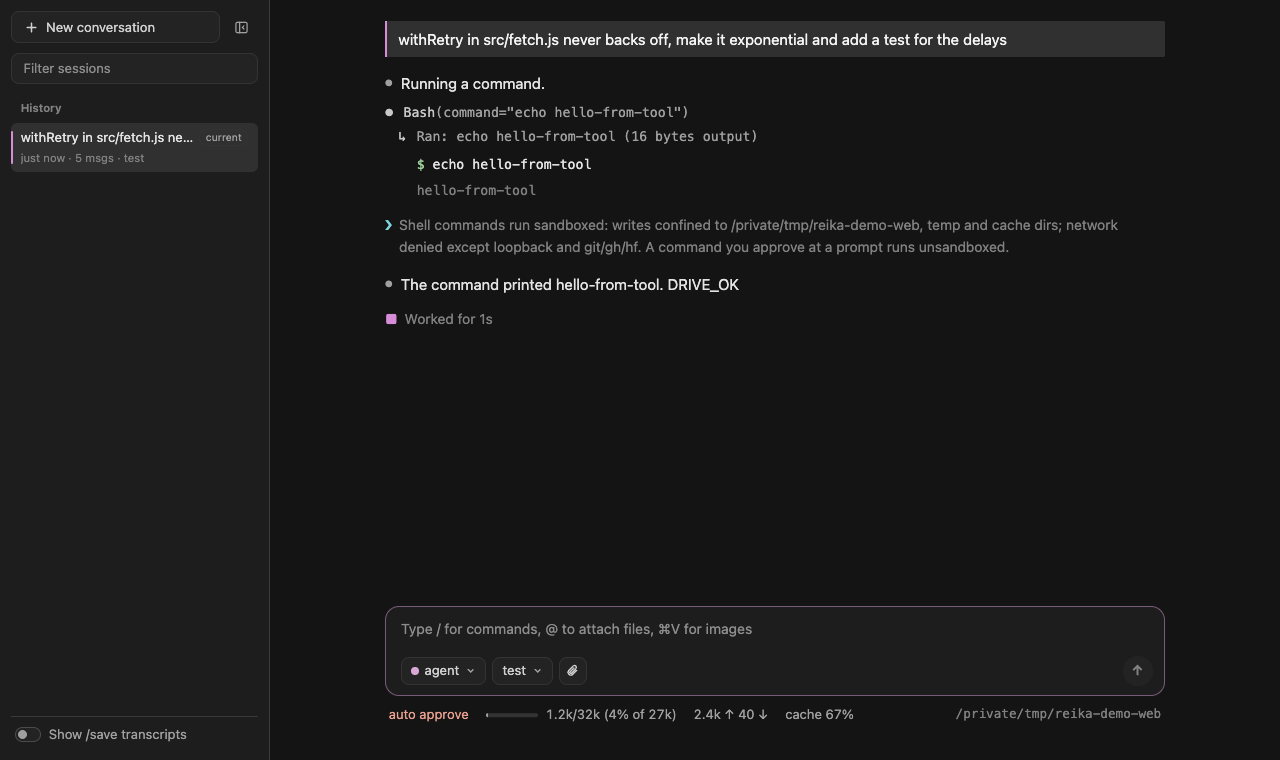
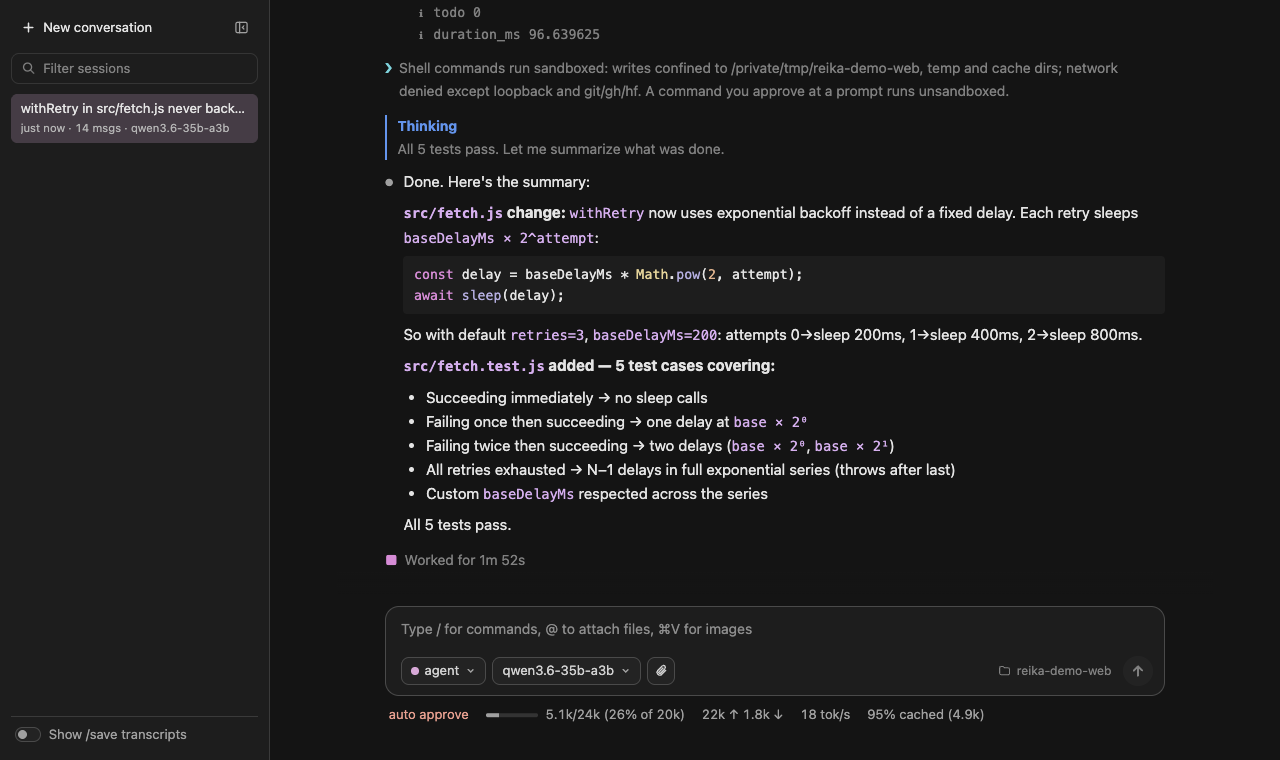
docs: real web demo take and its captions
Replaces the placeholder demo-web.gif with a recorded run of the same task
as the terminal gif, on the same model entry (Qwen3.6 35B A3B UD-IQ2_M via
llama.cpp), cut at 3x. Fills the English and Chinese web captions, which
describe this take: the tests pass on the first run.

diff --git a/docs/zh/index.md b/docs/zh/index.md
@@ -78,7 +78,7 @@ docs:
   terminal-alt="Reika 使用本地模型修复重试辅助函数及其测试"
   terminal-caption="通过 llama.cpp 运行 Qwen3.6 35B A3B（Unsloth UD-IQ2_M）的一次真实本地运行，播放速度加快 3 倍。模型的第一次测试失败后，根据错误进行了修复。"
   web-alt="在 reika web 中完成同一任务：Reika 使用本地模型修复重试辅助函数及其测试"
-  web-caption="TODO: the web take's caption, translated."
+  web-caption="通过 llama.cpp 运行 Qwen3.6 35B A3B（Unsloth UD-IQ2_M）的一次真实本地运行，播放速度加快 3 倍。模型完成修改，为延迟编写了五个测试，第一次运行就全部通过。"
 />
 
 ## 安装

diff --git a/docs/index.md b/docs/index.md
@@ -79,7 +79,7 @@ docs:
   terminal-alt="Reika fixing a retry helper and its test with a local model"
   terminal-caption="A real local run of Qwen3.6 35B A3B (Unsloth UD-IQ2_M) via llama.cpp, sped up 3×. The model's first test fails and it fixes it from the error."
   web-alt="The same task in reika web: Reika fixing a retry helper and its test with a local model"
-  web-caption="TODO: the web take's model, quant and speed-up, stated as the terminal caption states them."
+  web-caption="A real local run of Qwen3.6 35B A3B (Unsloth UD-IQ2_M) via llama.cpp, sped up 3×. The model makes the change, writes five tests for the delays, and they pass on the first run."
 />
 
 ## Install
